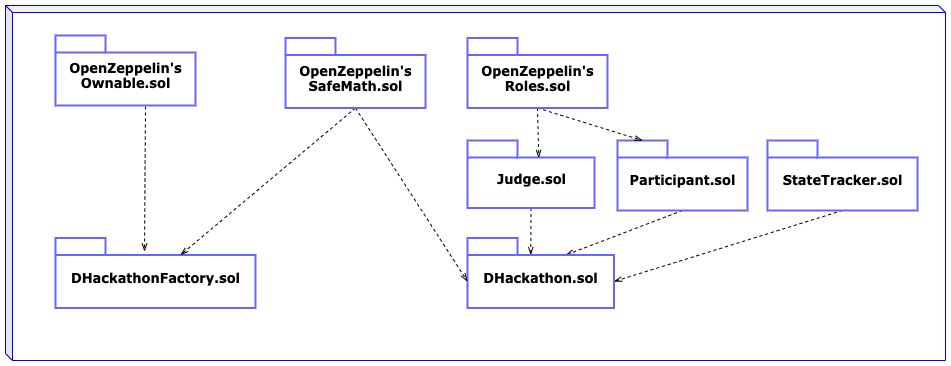
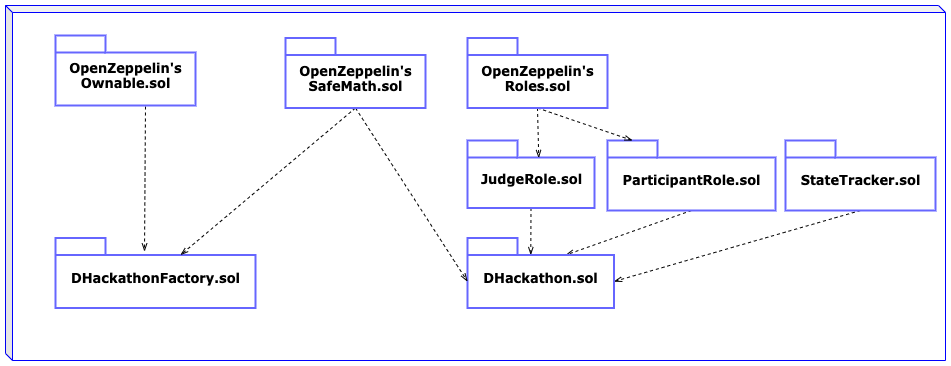
finished design_patterns and common attacks and UMLs

diff --git a/design_pattern_decisions.md b/design_pattern_decisions.md
@@ -1,13 +1,3 @@
-  - Factory - child
-    - Operational circuit breaker
-    - withdrawal pattern
-
-  - using SafeMath for uint256 from OpenZeppelin
-  - using Roles from OpenZepplin
-  - state patterns isClosed modifiers
-
-
-
 ![diagram](./UML/UML_data_modeling.png)
 
 # Design Pattern Decisions
@@ -15,24 +5,26 @@
 
 ## DHackathon Factory
 
-A modular, factory-child design pattern was utilized where anyone can call the `createDHackathon` function of the `DHackathonFactory` contract to instantiate and become the _admin_ of a newly minted `DHackathon` contract. This design decision limits the responsibilities of the `DHackathonFactory` contract to only 3 functions (`createDHackathon`, `shutdown`, `withdrawFunds`) and two types of users, the _owner_ and everyone else. This contract inherist the `Ownable.sol` contract from OpenZeppelin for 2 reasons: to leverage the `onlyOwner` modifier and make the `shutdown` \& `withdrawFunds` functions only accessible to the _owner_ and to allow the owner to `transferOwnership` and `renounceOwnership`.
+A modular, factory-child design pattern was utilized where anyone can call the `createDHackathon` function of the `DHackathonFactory` contract to instantiate and become the _admin_ of a newly minted `DHackathon` contract. This design decision limits the responsibilities of the `DHackathonFactory` contract to only 3 functions (`createDHackathon`, `shutdown`, `withdrawFunds`) and two types of users, the _owner_ and everyone else. 
 
-#### `createDHackathon` function
+### Modularity and inheritance
+This contract inherits the `Ownable.sol` contract from OpenZeppelin to first leverage the `onlyOwner` modifier and make the `shutdown` \& `withdrawFunds` functions only accessible to the _owner_ and to allow the owner to `transferOwnership` and `renounceOwnership`. It also inherits and applies the `SafeMath` _library_ to all uint types to prevent under- and overflow.
 
-This function was designed to be called by anyone (including the _owner_). Given that we believe the functionality of the `DHackathon` contract — to seamleslly conduct a Hackathon in a decentralized manner is valuable — it has a cost of 0.1 ETH. This function instantiates a new `DHackathon` contract assigning _Admin_ priviledges to the caller, and keeps a record of the newly minted contract via mapping-struct combination for accountability purposes.
+### `createDHackathon` function
 
-#### Circuit Breaker — `shutdown` function
+This function was designed to be called by anyone (including the _owner_). Given that we believe the functionality of the `DHackathon` contract — to seamleslly conduct a Hackathon in a decentralized manner is valuable — it has a cost of 0.1 ETH. This function instantiates a new `DHackathon` contract assigning _Admin_ priviledges to the caller, and keeps a record of the newly minted contract via mapping-struct combination for accountability purposes. The caller must specify what `name` and `prize` the `DHackathon` will have. The contract's balance will have to be greater or equal to the promised `prize` for the `DHackathon` contract to change to the `Open` state.
+
+### Circuit Breaker — `shutdown` function
 
 The `shutdown` function is a circuit breaker that blocks the `createDHackathon` function. It was created in case any bugs are found within the `DHackathon` contract which is the one that hosts most of the functionality of this platform. The `withdrawFunds` funds was not blocked as it is restricted to the _owner_ via a modifier.
 ```
-/// state variable
 bool public operational = true;
-/// modifier
+
 modifier isOperational() {
     require(operational == true, "This contract has been stopped by the owner.");
     _;
 }
-/// function
+
 function shutdown()
         public
         onlyOwner()
@@ -43,101 +35,62 @@ function shutdown()
 
 The `operational` state variable was kept public as it is rendered in the UI to discourage everyone from calling `createDHackathon` when it is blocked.
 
-#### `withdrawFunds` function
+### `withdrawFunds` function
 
-This function is restricted to the _owner_ and it sends the contract's balance, accumulated from DHackathon creations, to the _owner_. Note this function is an example of the withdrawal pattern being preferred over the push send pattern.
+This function is restricted to the _owner_ and it sends the contract's balance, accumulated from DHackathon creations, to the _owner_. Note this function is an example of the **withdrawal pattern** being preferred over the push send pattern.
 
 ---
+
 
 ## DHackathon
 
 The DHackathon contracts are minted by the `DHackathonFactory` contract. This design pattern makes each `DHackathon` contract modular and independent. Once instantiated, it has no concern or need for the `DHackathonFactory` that created it.
 
-1. To stop selling tickets while the setting Lucky7Numbers phase is happening:
+### Modularity and inheritance
 
-This modifier is in the Lucky7Store contract and is related to the sellRandomTicket, generateRandomTicket, and sellGeneratedTicket functions.
+This contract inherits the `JudgeRole`, `ParticipantRole`, and `StateTracker`, the first two inheriting the `Roles` library from OpenZeppelin. The `DHackathon` contract also inherits and applies the `SafeMath` _library_ to all uint types to prevent under- and overflow.
 
-2. To stop the possible generation of Lucky7Numbers while a game is in curse:
-```
-modifier gameNotInCourse(){
-        require(settingLucky7Numbers==true);
-        _;
-    }
-```
+### Roles
 
-3. To stop users to set new games until both time and pot setted are reached:
-```
-modifier prizesDeliveryEnabled() {
-    bool potReached;
-    bool timeReached;
-    (, potReached, timeReached) = validateDelivery();
-    if(isLocalBlockchain == true){
-      require((potReached == true && timeReached == true) || isOwner());
-    }
-    else{
-      require(potReached == true && timeReached == true);
-    }
-    _;
-  }
-```
-
-4. To stop users on generating new Lucky7Numbers if we are waiting for one:
-```
-  bool waitingForLucky7Number = false;
-```
+The `DHackathon` contract has 3 roles and therefore 4 types of users: _Admin_, _Judge_, _Participant_, everyone else (no role). Roles are utilized to accurately represents how hackathons are conducted, but also to restrict function access. For example, the only state-changing functions that have open access, i.e. can be called by anyone, are the   `submitFunds` function and the `registerAsParticipant` function. Modifiers from `JudgeRole` and `ParticipantRole` contract were utilized to enforce this behavior. Below a list of the functions available to each role.
 
 
-This modifier is in the Lucky7Raflle contract and is related to the generateLuckyNumber which generates the Lucky7Numbers. The settingLucky7Numbers value is changed once the setNewGame of the Lucky7Raflle contract is called, i.e. when a new game is setted and is necessary to set the new Lucky7Numbers.
++ **Admin:**  `addJuge(address _account)` and `removeJudge(address _account)` to handle who the judge role, and functions to move the `DHackathon` through its stages like: `openDHackathon()`, `toVotingDHackathon()`, and `closeDHackathon()`.
++ **Judge:** can `submitVote(address _proposedWinner)` to choose its elected winnner.
++ **Participant:** can only `submitProject(string _url)` to deliver the location of their Hackathon project, and `withdrawPrize` to retrieve part of the prize if it received any votes by the Judges.
++ **Anyone:** Any externally owned account (EOA) can `registerAsAParticipant()` therefore gaining access to the Participant Role priviledges. Any EOA, including ones with assigned roles, can `submitFunds()` that will be accumulated in the `DHackathon` contract as the prize to be withdrawn by the winners.
 
-## Contract modularity and inheritances
-The inheritances are as follow:
-Lucky7Admin -> Lucky7TicketFactory -> Lucky7Raflle -> Lucky7Store
-
-In the earlier stages of this project the contracts were pretty simple, but as the requirements were appearing, the code was getting more and more complex.
-That's why i decided to divide the business logic in 4 modules:
-
-1. Service Administration: Lucky7Admin
-
-This contract contains the functions to change the selling and generating tickets prices, the oraclize gas limit and gas price and the wallet where the 30%
-of the balance of the contract os going when a new game is setted.
-
-2. Random numbers generation: Lucky7TicketFactory
-
-This contract contains all the functions that generate random numbers, i.e. generates parameters, Tickets and Lucky7Numbers. This is the very essence of the game, the random numbers generated
-
-3. Taking decisions to make the game work: Lucky7Raflle
-
-This contract containts the function to know how and when to generate the Lucky7Numbers, when to Store the Lucky7Tickets in the lucky7TicketsArray of the Lucky7TicketFactory contract, how to order the Lucky7Numbers and Lucky7Tickets in ascending order, how to deliver the prizes, what parameters increment and what arrays to clean when a the setNewGame function is called.
-
-4. The market: Lucky7Store
-
-This contract contains the functions necessary to determine when to sell and generate tickets and when to stop to do it.
+Notice the _Admin_ has no say on the selection of the winner or the delivery of the prize. To further decentralize this contract, the stage changes can be time based. Furthermore, the election of judges can be done by a voting mechanism.
 
 
-## [Withdrawal from contracts](https://solidity.readthedocs.io/en/v0.4.24/common-patterns.html#withdrawal-from-contracts) and not sending ETH to 0
-When the setNewGame function of the Lucky7Raflle is called, it then calls the deliverPrizes function, which deliver the prizes for the best Lucky7Tickets. It proceed to check that the owner of those Lucky7Tickets is not an address 0, and then store the prizes on the pendingWithdrawals mapping. This way we avoid a DoS with (Unexpected) revert attack; the winners have to claim for them prizes instead of being automatically delivered.
+### States
 
-## Feature Contracts
-Ownable: OpenZeppelin contract. There's a lot of functions which are necesarily stricted to the admins. It's used for the onlyOwner modifier.
+The `StateTracker` contract keeps track of what stage the `DHackathon` is on. Using modifiers, functions are restricted to the particular stage in the `DHackathon` when they are expected. This design pattern, like the Roles, accurately represents how hackathons are conducted while helping to restrict function access therefore limiting the possibilities for malicious action or bugs. The stages that each `Hackathon` contract is expected to go through are: _In Preparation_, _Open_, _In Voting_, _Closed_. Modifiers from `State Tracker` are utilized to enforce this behavior. Below a list of the allowed functionality on each stage.
 
++ **In Preparation:** 
+  + *Admin:* `addJudge`, `removeJudge`, `openDHackathon`
+  + *Judge:* -
+  + *Participant:* `deregisterAsParticipant`
+  + *No role:* `registerAsParticipant`
++ **Open:**
+  + *Admin:* `toVotingDHackathon`, `removeJudge`
+  + *Judge:* -
+  + *Participant:* `submitProject`, `deregisterAsParticipant`
+  + *No role:* -
++ **In Voting:**
+  + *Admin:* `closeDHackathon`, `removeJudge`
+  + *Judge:* `submitVote`
+  + *Participant:* `deregisterAsParticipant`
+  + *No role:* -
++ **Closed:**
+  + *Admin:* -
+  + *Judge:* -
+  + *Participant:* `withdrawPrize`
+  + *No role:* 
 
-## Pseudo-Random Number Generator
-Not presented yet, but is kind of a "numeric hash". While is true that Provable have a perfectly functional entropy source that could do the work, users needs a way to certificate that the game is not biased. That's why using this PRNG is important; since it acts as a "numeric hash", is unlikely to know the inputs that are going to produce certain output. It also works as a "watermark"; users can verify themselves that the tickets obtained corresponds to the paramaters purchased. Today, the parameters are 4 digits number, which means a space of (10000-1000)^2=81.000.000 distinct combinations, therefore that amount of numbers. The calculus comes from the idea that when asked for a 4 digit number, Wolfram responds with a number with the most significant digit distinct than 0, or strictly greater than 999 to be exact. 
+With the caveat, that anyone, with role or without role, can call `submitFunds`, `balance`, `isAdmin` at any stage.
 
-Changing the query to 5 digits numbers, would result in a (100000-10000)^2 = 8.100.000.000 distinct numbers. This, asking for 2 parameters. Ask for 3 parameters would result in astronomics numbers. Future possibilities to ensure entropu of the game.
+To change the `DHackathon` state from _In Preparation_ to _Open_ the contract's balance must be equal or greater than the _prize_ the _Admin_ declared when calling the `createDHackathon` function from the `DHackathonFactory` contract.
 
-That said, the PRNG takes the mu and i parameter to generate Tickets and Lucky7Numbers.
-
-
-## Lucky7Ticket and Tickets storage
-Lucky7Tickets and Tickets are stored permanently on the Blockchain to verify, in future games and if a user wants to, that all the prices where delivered correctly. There have to be a work of "transparency", where users can claim they are the winner of certain past prize, and can demonstrate it through the values of the stored LuckyTickets and Tickets.
-
-## Oraclize gas limit and gas price
-
-OraclizeCustomGasPrice and OraclizeGasLimit where calculated in such way that the tickets weren't so expensive and the oraclize querys were to slow. This process was done on Rinkeby testnet through remix.
-
-## Pot reached not using contract balance
-
-For crowd-wise logic, is necessary to reach certain pot to deliver prizes. As is known that there's no way to make an EOA or an address to reject ether transfers, then there was necessary to design another method. To do so, in Lucky7Admin there's a function called validateDeliver() which calculates the pot according to ticket prices and provable prices, getting the subtraction of both
-and multiplying them as a way to get the current pot. This way, 'forced ether sending' is discouraged because it does not have any effect on game cycle.
-
+Below an UML sequence diagram depicting the factory-child design pattern, along with the state machine design pattern and roles of the `DHackathon` contract.
+![diagram](UML_sequence_diagram)

diff --git a/README.md b/README.md
@@ -1,44 +1,12 @@
-# Hackathon Smart Contract
+# Welcome to Decentralized Hackathons!
 
-[![N|Solid](https://cldup.com/dTxpPi9lDf.thumb.png)](https://nodesource.com/products/nsolid)
+![diagram](./UML/UML_state_diagram_simplified.png)
 
-[![Build Status](https://travis-ci.org/joemccann/dillinger.svg?branch=master)](https://travis-ci.org/joemccann/dillinger)
+## Description
 
-Dillinger is a cloud-enabled, mobile-ready, offline-storage, AngularJS powered HTML5 Markdown editor.
+The purpose of this project is to transitin online Hackathons to the blockchain as smoothly as possible, therefore the idea main design considerations was to replicate the online hackathon process as accurately and seamlessly as possible within the ethereum blockchain context.
 
-  - Type some Markdown on the left
-  - See HTML in the right
-  - Magic
-
-
-
-# design_pattern_decisions.md!
-
-  - using SafeMath for uint256 from OpenZeppelin
-  - circuit breaker
-  - role pattern library open zepelin
-  - state patterns isClosed
-  - Factory
-  - State
-  - Roles
-  - Circuit Breaker
-
-
-# called avoiding_common_attacks.md!
-
-
-  - Mortal and/or Autodeprecation
-  - Pull over Push / Withdrawal pattern  ----- DONE
-  - State Machine    ------- DONE
-  - Rate Limniting
-
-
-
-
-You can also:
-  - Import and save files from GitHub, Dropbox, Google Drive and One Drive
-  - Drag and drop markdown and HTML files into Dillinger
-  - Export documents as Markdown, HTML and PDF
+---
 
 To Remember:
   - On video demo, mention all the TO-DO/Nice-to-haves and explain how this can be generalized for any type of competition
